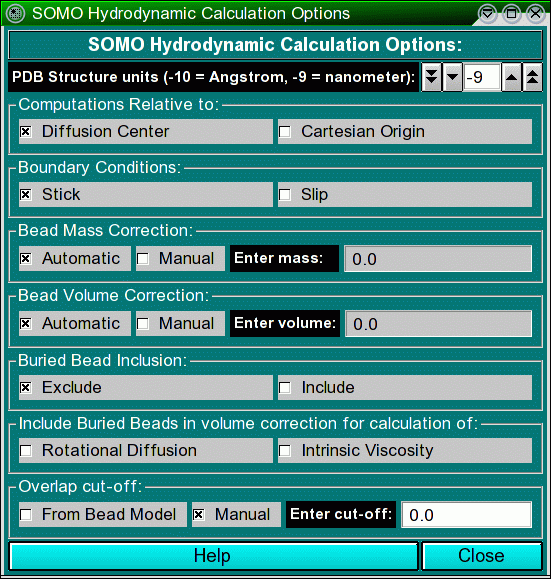
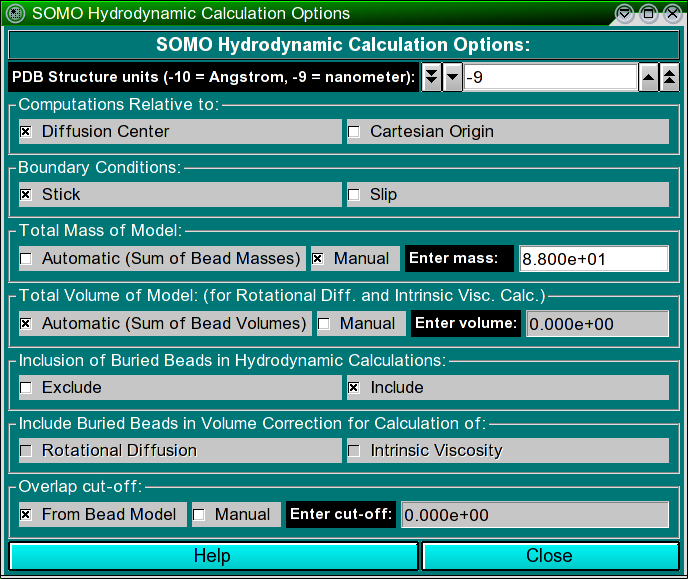
final fixes on hdyrodynamic options

Changed region(s): [[0.0, 0.0, 1.0, 1.0], [0.4936, 0.2176, 0.7713, 0.2487], [0.4936, 0.3109, 0.5862, 0.3731]]

diff --git a/develop/src/us_hydrodyn_hydro.cpp b/develop/src/us_hydrodyn_hydro.cpp
@@ -9,6 +9,7 @@ bool *hydro_widget, QWidget *p, const char *name) : QFrame(p, name)
 	USglobal=new US_Config();
 	setPalette(QPalette(USglobal->global_colors.cg_frame, USglobal->global_colors.cg_frame, USglobal->global_colors.cg_frame));
 	setCaption(tr("SOMO Hydrodynamic Calculation Options"));
+	this->setMinimumWidth(680);
 	setupGUI();
 	global_Xpos += 30;
 	global_Ypos += 30;
@@ -86,12 +87,12 @@ void US_Hydrodyn_Hydro::setupGUI()
 
 	bg_boundary_cond->setButton((*hydro).boundary_cond);
 	
-	bg_mass_correction = new QButtonGroup(4, Qt::Horizontal, "Bead Mass Correction:", this);
+	bg_mass_correction = new QButtonGroup(4, Qt::Horizontal, "Total Mass of Model:", this);
 	bg_mass_correction->setExclusive(true);
 	connect(bg_mass_correction, SIGNAL(clicked(int)), this, SLOT(select_mass_correction(int)));
 
 	cb_auto_mass = new QCheckBox(bg_mass_correction);
-	cb_auto_mass->setText(tr(" Automatic "));
+	cb_auto_mass->setText(tr(" Automatic (Sum of Bead Masses)"));
 	cb_auto_mass->setEnabled(true);
 	cb_auto_mass->setFont(QFont( USglobal->config_list.fontFamily, USglobal->config_list.fontSize));
 	cb_auto_mass->setPalette( QPalette(USglobal->global_colors.cg_normal, USglobal->global_colors.cg_normal, USglobal->global_colors.cg_normal));
@@ -118,12 +119,12 @@ void US_Hydrodyn_Hydro::setupGUI()
 	le_mass->setEnabled((*hydro).mass_correction);
 	connect(le_mass, SIGNAL(textChanged(const QString &)), SLOT(update_mass(const QString &)));
 
-	bg_volume_correction = new QButtonGroup(4, Qt::Horizontal, "Bead Volume Correction:", this);
+	bg_volume_correction = new QButtonGroup(4, Qt::Horizontal, "Total Volume of Model: (for Rotational Diff. and Intrinsic Visc. Calc.)", this);
 	bg_volume_correction->setExclusive(true);
 	connect(bg_volume_correction, SIGNAL(clicked(int)), this, SLOT(select_volume_correction(int)));
 
 	cb_auto_volume = new QCheckBox(bg_volume_correction);
-	cb_auto_volume->setText(tr(" Automatic "));
+	cb_auto_volume->setText(tr(" Automatic (Sum of Bead Volumes)"));
 	cb_auto_volume->setEnabled(true);
 	cb_auto_volume->setFont(QFont( USglobal->config_list.fontFamily, USglobal->config_list.fontSize));
 	cb_auto_volume->setPalette( QPalette(USglobal->global_colors.cg_normal, USglobal->global_colors.cg_normal, USglobal->global_colors.cg_normal));
@@ -150,9 +151,8 @@ void US_Hydrodyn_Hydro::setupGUI()
 	le_volume->setEnabled((*hydro).volume_correction);
 	connect(le_volume, SIGNAL(textChanged(const QString &)), SLOT(update_volume(const QString &)));
 
-	bg_bead_inclusion = new QButtonGroup(2, Qt::Horizontal, "Buried Bead Inclusion:", this);
+	bg_bead_inclusion = new QButtonGroup(2, Qt::Horizontal, "Inclusion of Buried Beads in Hydrodynamic Calculations:", this);
 	bg_bead_inclusion->setExclusive(true);
-	bg_bead_inclusion->setEnabled(!(*hydro).volume_correction);
 	connect(bg_bead_inclusion, SIGNAL(clicked(int)), this, SLOT(select_bead_inclusion(int)));
 
 	cb_exclusion = new QCheckBox(bg_bead_inclusion);
@@ -169,11 +169,18 @@ void US_Hydrodyn_Hydro::setupGUI()
 
 	bg_bead_inclusion->setButton((*hydro).bead_inclusion);
 	
-	gb_buried = new QButtonGroup(2, Qt::Horizontal, "Include Buried Beads in volume correction for calculation of:", this);
+	gb_buried = new QButtonGroup(2, Qt::Horizontal, "Include Buried Beads in Volume Correction for Calculation of:", this);
 
 	cb_rotational = new QCheckBox(gb_buried);
 	cb_rotational->setText(tr(" Rotational Diffusion "));
-	cb_rotational->setEnabled(!(*hydro).bead_inclusion);
+	if ((*hydro).volume_correction)
+	{
+		cb_rotational->setEnabled(false);
+	}
+	else
+	{
+		cb_rotational->setEnabled(!(*hydro).bead_inclusion);
+	}
 	cb_rotational->setChecked((*hydro).rotational);
 	cb_rotational->setFont(QFont( USglobal->config_list.fontFamily, USglobal->config_list.fontSize));
 	cb_rotational->setPalette( QPalette(USglobal->global_colors.cg_normal, USglobal->global_colors.cg_normal, USglobal->global_colors.cg_normal));
@@ -181,7 +188,14 @@ void US_Hydrodyn_Hydro::setupGUI()
 
 	cb_viscosity = new QCheckBox(gb_buried);
 	cb_viscosity->setText(tr(" Intrinsic Viscosity "));
-	cb_viscosity->setEnabled(!(*hydro).bead_inclusion);
+	if ((*hydro).volume_correction)
+	{
+		cb_viscosity->setEnabled(false);
+	}
+	else
+	{
+		cb_viscosity->setEnabled(!(*hydro).bead_inclusion);
+	}
 	cb_viscosity->setChecked((*hydro).viscosity);
 	cb_viscosity->setFont(QFont( USglobal->config_list.fontFamily, USglobal->config_list.fontSize));
 	cb_viscosity->setPalette( QPalette(USglobal->global_colors.cg_normal, USglobal->global_colors.cg_normal, USglobal->global_colors.cg_normal));
@@ -292,15 +306,32 @@ void US_Hydrodyn_Hydro::select_boundary_cond(int val)
 void US_Hydrodyn_Hydro::select_bead_inclusion(int val)
 {
 	(*hydro).bead_inclusion = val;
-	cb_rotational->setEnabled(!(*hydro).bead_inclusion);
-	cb_viscosity->setEnabled(!(*hydro).bead_inclusion);
+	if ((*hydro).volume_correction)
+	{
+		cb_viscosity->setEnabled(false);
+		cb_rotational->setEnabled(false);
+	}
+	else
+	{
+		cb_viscosity->setEnabled(!(*hydro).bead_inclusion);
+		cb_rotational->setEnabled(!(*hydro).bead_inclusion);
+	}
 }
 
 void US_Hydrodyn_Hydro::select_volume_correction(int val)
 {
 	(*hydro).volume_correction = val;
-	bg_bead_inclusion->setEnabled(!(*hydro).volume_correction);
 	le_volume->setEnabled((*hydro).volume_correction);
+	if ((*hydro).volume_correction)
+	{
+		cb_viscosity->setEnabled(false);
+		cb_rotational->setEnabled(false);
+	}
+	else
+	{
+		cb_viscosity->setEnabled(!(*hydro).bead_inclusion);
+		cb_rotational->setEnabled(!(*hydro).bead_inclusion);
+	}
 }
 
 void US_Hydrodyn_Hydro::select_mass_correction(int val)
